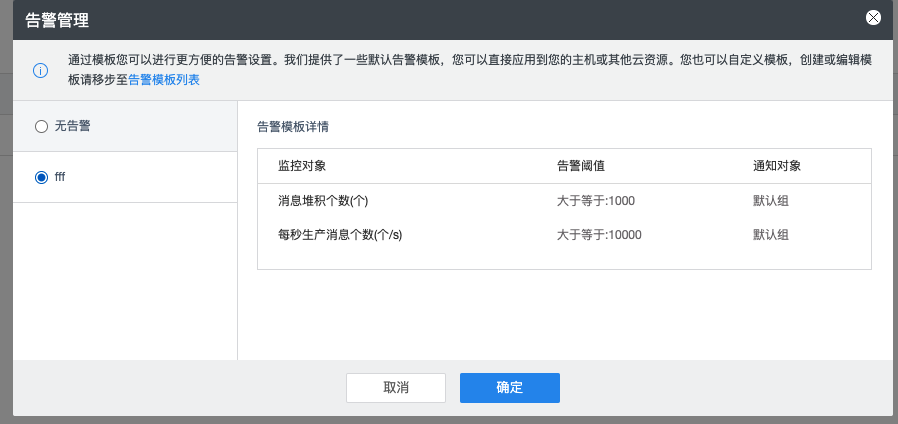
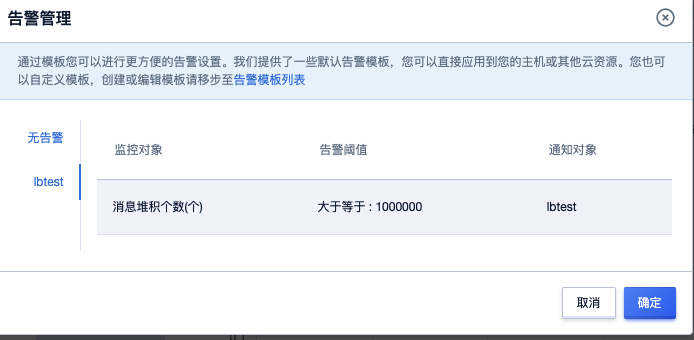
修改告警模板

diff --git a/guide/alarm/bind_resource.md b/guide/alarm/bind_resource.md
@@ -1,13 +1,9 @@
 # 绑定资源
 
-进入 资源监控UMon - 资源监控：https://console.ucloud.cn/umon/overview
+进入实例详情页，点击告警模板修改按钮，如下：
 
-选择指定的项目、地域，URocketMQ为地域级别产品，可用区注意需要选择下拉表中的第一个，资源类型选择RocketMQ消息队列，选项确定后可获取符合的实例列表
+![alarm_bind_button](/rocketmq/images/alarm_bind_button.png)
 
-![alarm_resource_list](/rocketmq/images/alarm_resource_list.png)
+选择需要的模板绑定即可。
 
-选择需要告警的资源，进行绑定
-
-![alarm_manage](/rocketmq/images/alarm_manage.png)
-
-![alarm_bind_temp](/rocketmq/images/alarm_temp_list.png)
+![alarm_bind_temp](/rocketmq/images/alarm_bind_temp.png)
